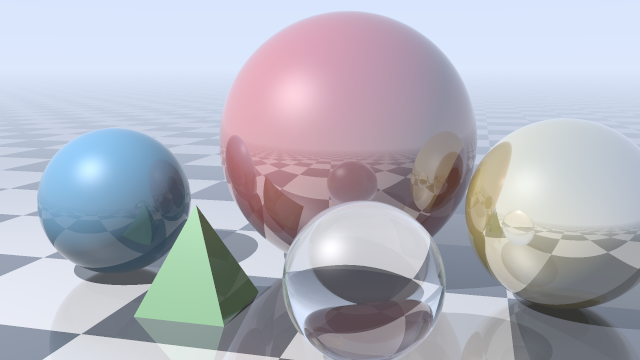
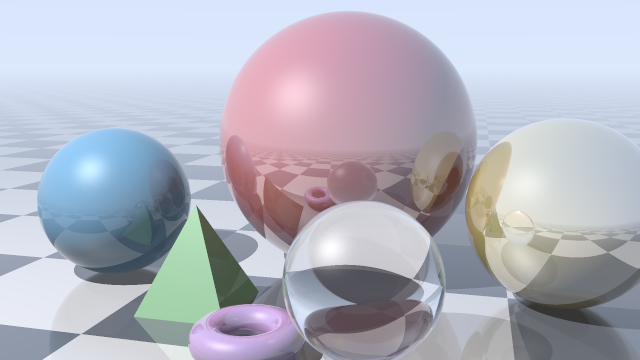
Add meshes behind a bounding volume hierarchy, an OBJ reader, and a smooth torus in the scene.
A mesh keeps its triangles in a tree of boxes, so a ray tests only the triangles near it: the 1,024-triangle ring renders 66 times faster than the same triangles tested one by one, to the same picture. Triangles can carry a normal at each corner, blended across the face, and load_obj reads Wavefront OBJ files. The README image is rendered again with the ring in it, and seven deliberate breakages each fail the test.

Changed region(s): [[0.2812, 0.825, 0.5312, 1.0], [0.4688, 0.5194, 0.5312, 0.5806], [0.5938, 0.9778, 0.625, 1.0]]

diff --git a/raytracer.py b/raytracer.py
@@ -104,10 +104,15 @@ class Plane:
 class Triangle:
     ior = None
 
-    def __init__(self, a, b, c, colour, reflect=0.0):
+    def __init__(self, a, b, c, colour, reflect=0.0, normals=None):
         # The normal follows the winding: counter-clockwise seen from outside points out.
+        # normals, one per corner, are blended across the face so a mesh looks smooth.
         self.a, self.e1, self.e2 = a, sub(b, a), sub(c, a)
         self.normal, self.colour, self.reflect = unit(cross(self.e1, self.e2)), colour, reflect
+        self.normals = normals
+        if normals:
+            d00, d01, d11 = dot(self.e1, self.e1), dot(self.e1, self.e2), dot(self.e2, self.e2)
+            self.bary = (d00, d01, d11, d00 * d11 - d01 * d01)
 
     def hit(self, origin, direction):
         # Moller-Trumbore: solve origin + t*direction = a + u*e1 + v*e2 by Cramer's rule,
@@ -128,10 +133,123 @@ class Triangle:
         return t if t > 1e-4 else None
 
     def normal_at(self, point):
-        return self.normal
+        if not self.normals:
+            return self.normal
+        # How far the point is towards b (u) and towards c (v), from the point's own position.
+        d00, d01, d11, denom = self.bary
+        w = sub(point, self.a)
+        d20, d21 = dot(w, self.e1), dot(w, self.e2)
+        u, v = (d11 * d20 - d01 * d21) / denom, (d00 * d21 - d01 * d20) / denom
+        na, nb, nc = self.normals
+        return unit(add(add(mul(na, 1 - u - v), mul(nb, u)), mul(nc, v)))
 
     def colour_at(self, point):
         return self.colour
+
+
+class Mesh:
+    # Many triangles behind one box tree (a BVH): a ray only tests the triangles in boxes it
+    # passes through. DOCS.md has how it is built and what it saves.
+    ior = None
+    LEAF = 4
+
+    def __init__(self, triangles):
+        self.triangles = triangles
+        self.root = self.build(triangles)
+
+    @staticmethod
+    def bounds(tris):
+        pts = [p for t in tris for p in (t.a, add(t.a, t.e1), add(t.a, t.e2))]
+        return tuple(min(p[i] for p in pts) for i in range(3)), tuple(max(p[i] for p in pts) for i in range(3))
+
+    def build(self, tris):
+        # Split at the median along the axis where the triangles' centres spread widest.
+        lo, hi = self.bounds(tris)
+        if len(tris) <= self.LEAF:
+            return lo, hi, tris
+        centre = lambda t, i: t.a[i] + (t.e1[i] + t.e2[i]) / 3
+        axis = max(range(3), key=lambda i: max(centre(t, i) for t in tris) - min(centre(t, i) for t in tris))
+        tris = sorted(tris, key=lambda t: centre(t, axis))
+        half = len(tris) // 2
+        return lo, hi, (self.build(tris[:half]), self.build(tris[half:]))
+
+    def closest(self, origin, direction):
+        # The nearest triangle hit and its distance. Boxes are tested by slabs: the ray is
+        # inside the box between the last plane it enters and the first it leaves.
+        inv = tuple(1 / d if d else float("inf") for d in direction)
+        best_t, best = float("inf"), None
+        stack = [self.root]
+        while stack:
+            lo, hi, kids = stack.pop()
+            near, far = 0.0, best_t
+            for i in range(3):
+                t1, t2 = (lo[i] - origin[i]) * inv[i], (hi[i] - origin[i]) * inv[i]
+                if t1 > t2:
+                    t1, t2 = t2, t1
+                near, far = max(near, t1), min(far, t2)
+                if near > far:
+                    break
+            else:
+                if isinstance(kids, tuple):
+                    stack.extend(kids)
+                    continue
+                for tri in kids:
+                    t = tri.hit(origin, direction)
+                    if t is not None and t < best_t:
+                        best_t, best = t, tri
+        return best_t, best
+
+
+def load_obj(text, colour, reflect=0.0, scale=1.0, offset=(0.0, 0.0, 0.0)):
+    # Wavefront OBJ: v and vn lines, and f lines as i, i/j, i//k or i/j/k, counted from 1 or,
+    # when negative, back from the latest. A face of more than three corners is fanned.
+    verts, norms, tris = [], [], []
+
+    def pick(table, k):
+        i = int(k)
+        if not -len(table) <= i <= len(table) or i == 0:
+            raise ValueError(f"index {i} names nothing: there are {len(table)}, counted from 1 or back from -1")
+        return table[i - 1 if i > 0 else i]
+    for number, line in enumerate(text.splitlines(), 1):
+        words = line.split("#")[0].split()
+        if not words:
+            continue
+        try:
+            if words[0] == "v":
+                verts.append(add(mul(tuple(float(w) for w in words[1:4]), scale), offset))
+            elif words[0] == "vn":
+                norms.append(unit(tuple(float(w) for w in words[1:4])))
+            elif words[0] == "f":
+                corners = []
+                for w in words[1:]:
+                    parts = w.split("/")
+                    corners.append((pick(verts, parts[0]), pick(norms, parts[2]) if len(parts) > 2 and parts[2] else None))
+                if len(corners) < 3:
+                    raise ValueError("a face needs three corners")
+                for i in range(1, len(corners) - 1):
+                    (a, na), (b, nb), (c, nc) = corners[0], corners[i], corners[i + 1]
+                    tris.append(Triangle(a, b, c, colour, reflect, (na, nb, nc) if na and nb and nc else None))
+        except ValueError as e:
+            raise ValueError(f"line {number}: {line.strip()}: {e}") from None
+    if not tris:
+        raise ValueError("no faces")
+    return Mesh(tris)
+
+
+def torus(centre, ring, tube, colour, reflect=0.0, around=32, across=16):
+    # A ring lying flat: around the ring, then around the tube, each corner with its true normal.
+    def at(i, j):
+        a, b = 2 * math.pi * i / around, 2 * math.pi * j / across
+        n = (math.cos(b) * math.cos(a), math.sin(b), math.cos(b) * math.sin(a))
+        p = add(centre, ((ring + tube * math.cos(b)) * math.cos(a), tube * math.sin(b), (ring + tube * math.cos(b)) * math.sin(a)))
+        return p, n
+    tris = []
+    for i in range(around):
+        for j in range(across):
+            (p00, n00), (p10, n10), (p01, n01), (p11, n11) = at(i, j), at(i + 1, j), at(i, j + 1), at(i + 1, j + 1)
+            tris.append(Triangle(p00, p01, p10, colour, reflect, (n00, n01, n10)))
+            tris.append(Triangle(p10, p01, p11, colour, reflect, (n10, n01, n11)))
+    return Mesh(tris)
 
 
 def pyramid(centre, half, height, colour, reflect=0.0):
@@ -148,6 +266,7 @@ SCENE = [
     Sphere((-1.35, -0.05, -1.9), 0.45, (0.25, 0.55, 0.85), reflect=0.1),
     Sphere((1.25, 0.0, -2.0), 0.5, (0.95, 0.80, 0.30), reflect=0.6),
     *pyramid((-0.62, -0.5, -1.5), 0.25, 0.55, (0.40, 0.75, 0.40), reflect=0.1),
+    torus((-0.15, -0.42, -1.0), 0.18, 0.08, (0.70, 0.45, 0.85), reflect=0.2),
     Sphere((0.35, -0.15, -1.1), 0.35, BLACK, ior=1.5),
 ]
 LIGHT = (-2.2, 3.0, 0.4)
@@ -157,7 +276,8 @@ AMBIENT = 0.12
 def nearest(origin, direction):
     best_t, best_obj = float("inf"), None
     for obj in SCENE:
-        t = obj.hit(origin, direction)
+        # A mesh answers with the triangle it hit, which is what knows its normal.
+        t, obj = obj.closest(origin, direction) if isinstance(obj, Mesh) else (obj.hit(origin, direction), obj)
         if t is not None and t < best_t:
             best_t, best_obj = t, obj
     return best_t, best_obj

diff --git a/test_raytracer.py b/test_raytracer.py
@@ -231,6 +231,64 @@ def main():
     assert dark < bright * 0.6, f"the pyramid casts no real shadow: {dark:.3f} vs {bright:.3f}"
     print(f"triangles: {compared} random rays agree with a second method, {hits} of them hits")
 
+    # A mesh's box tree must find the very triangle that testing every one of them finds.
+    ring = rt.torus((0.0, 0.0, -2.0), 0.5, 0.18, rt.BLACK)
+    hits = 0
+    for _ in range(2000):
+        origin = (rng.uniform(-2, 2), rng.uniform(-2, 2), rng.uniform(-0.5, 1))
+        direction = rt.unit(rt.sub((rng.uniform(-0.8, 0.8), rng.uniform(-0.3, 0.3), rng.uniform(-2.8, -1.2)), origin))
+        found = [(t, tri) for tri in ring.triangles if (t := tri.hit(origin, direction)) is not None]
+        assert ring.closest(origin, direction) == min(found, default=(float("inf"), None), key=lambda f: f[0])
+        hits += bool(found)
+    assert hits > 1000, hits
+    # Each face's winding agrees with the normals at its corners, and those blend across it:
+    # a corner's own normal at the corner, their average in the middle.
+    for tri in ring.triangles:
+        assert all(rt.dot(tri.normal, n) > 0 for n in tri.normals), "a face of the ring is wound inward"
+        b, c = rt.add(tri.a, tri.e1), rt.add(tri.a, tri.e2)
+        for corner, n in zip((tri.a, b, c), tri.normals):
+            assert max(abs(x - y) for x, y in zip(tri.normal_at(corner), n)) < 1e-9
+        middle = rt.add(tri.a, rt.mul(rt.add(tri.e1, tri.e2), 1 / 3))
+        expected = rt.unit(rt.add(rt.add(tri.normals[0], tri.normals[1]), tri.normals[2]))
+        assert max(abs(x - y) for x, y in zip(tri.normal_at(middle), expected)) < 1e-9
+    # In the scene, a ray that meets the ring is answered with one of its triangles.
+    mesh = next(obj for obj in rt.SCENE if isinstance(obj, rt.Mesh))
+    top = max(mesh.triangles, key=lambda tri: tri.a[1])  # on top of the tube, facing up
+    down = rt.add(top.a, rt.add(rt.mul(rt.add(top.e1, top.e2), 1 / 3), (0.0, 0.05, 0.0)))
+    assert rt.nearest(down, (0.0, -1.0, 0.0))[1] in mesh.triangles
+
+    # OBJ: every way a face can name its corners, negative indices, a quad fanned into two.
+    obj = """# a unit square and a triangle above it
+v 0 0 0
+v 1 0 0
+v 1 1 0
+v 0 1 0
+vn 0 0 2
+vt 0.5 0.5
+f 1 2 3 4
+f -4/1/1 -3//1 -2/1/-1
+f 1/1 2/1 4
+"""
+    square = rt.load_obj(obj, rt.BLACK)
+    assert len(square.triangles) == 4
+    corners = lambda tri: (tri.a, rt.add(tri.a, tri.e1), rt.add(tri.a, tri.e2))
+    assert corners(square.triangles[1]) == ((0.0, 0.0, 0.0), (1.0, 1.0, 0.0), (0.0, 1.0, 0.0)), "the quad was fanned wrongly"
+    assert corners(square.triangles[2]) == ((0.0, 0.0, 0.0), (1.0, 0.0, 0.0), (1.0, 1.0, 0.0)), "negative indices count wrongly"
+    assert square.triangles[2].normals == ((0.0, 0.0, 1.0),) * 3 and square.triangles[0].normals is None
+    assert abs(square.closest((0.75, 0.25, 1.0), (0.0, 0.0, -1.0))[0] - 1.0) < 1e-9
+    assert square.closest((1.5, 0.5, 1.0), (0.0, 0.0, -1.0))[1] is None
+    scaled = rt.load_obj(obj, rt.BLACK, scale=2.0, offset=(0.0, 0.0, -5.0))
+    assert abs(scaled.closest((1.5, 0.5, 0.0), (0.0, 0.0, -1.0))[0] - 5.0) < 1e-9
+    for broken, why in (("v 0 0 0\nf 1 2 3", "line 2: f 1 2 3: index 2 names nothing"), ("v 0 0 0\nv 1 0 0\nf 1 2", "line 3"),
+                        ("v 0 0 x", "line 1"), ("v 0 0 0", "no faces"), ("v 0 0 0\nf 1 0 1", "index 0 names nothing"),
+                        ("v 0 0 0\nf 1 1 -2", "index -2 names nothing")):
+        try:
+            rt.load_obj(broken, rt.BLACK)
+            raise AssertionError(f"{broken!r} was accepted")
+        except ValueError as e:
+            assert why in str(e), (broken, e)
+    print(f"meshes: 2000 rays find the same triangle through the box tree as without it, {hits} hits; OBJ read")
+
     # -H sets the height on the command line; without it the picture stays 16:9.
     import subprocess
     out = os.path.join(os.path.dirname(os.path.abspath(rt.__file__)), "t-size.png")

diff --git a/DOCS.md b/DOCS.md
@@ -184,8 +184,7 @@ The pyramid has four sides and no base, since the base sits on the floor and
 nothing can see it. It made the render 1.68 times slower, timed with and
 without it in turn in one process, because every ray now asks nine objects
 instead of five, and the full picture went from 53 seconds to 87. A mesh of
-thousands of triangles would need a bounding volume hierarchy, so that a ray
-only asks the triangles near it.
+thousands of triangles needs something better, which came next.
 
 The checks work the hit out by hand for one triangle, and then compare 3,000
 random rays at random triangles with a second method that meets the plane
@@ -198,3 +197,51 @@ The pyramid's shadow check was wrong at first. It looked straight down from
 high above, like the sphere's, but that ray landed on the red sphere, and the
 difference it measured was the pyramid's reflection in it. Turning off the
 pyramid's shadow left the check passing. It now starts just above the floor.
+
+## Meshes and the box tree
+
+A ring made of 1,024 triangles, tested one by one, makes every ray ask 1,034
+objects instead of ten. A small render of the scene took 26.4 seconds that
+way against 0.28 without the ring. So a `Mesh` keeps its triangles in a tree
+of boxes, a bounding volume hierarchy: the root box holds all of them, and
+each box splits its triangles in two at the median of their centres, along
+the axis where those centres spread widest, until four or fewer are left. A
+ray tests a box by slabs: between each pair of parallel faces it is inside
+for some stretch of t, and it is inside the box where all three stretches
+overlap. Only boxes it enters are opened, and a box that starts further away
+than the nearest hit so far is not opened at all. The same render took 0.40
+seconds, 66 times faster than the loose triangles and the same picture to the
+byte; the ring costs about what two spheres do. The full 640x360 render went
+from 87 seconds to 112 on four cores, and is 318 on one, identical either way.
+
+`nearest` asks a mesh for the triangle it hit, not just how far, since the
+triangle is what knows the normal and the colour.
+
+Flat triangles make a curved surface look cut from facets. So a triangle can
+carry a normal at each corner, and the normal at a point is the three blended
+by how near the point is to each corner, worked out from the point itself:
+its barycentric weights. The ring gives each corner its true normal from the
+torus, and an OBJ file gives them on `vn` lines. The shape is still the flat
+triangles, so a shadow ray from near the edge of the lit side can meet the
+triangle beside it; at 1,024 triangles that is not visible.
+
+`load_obj` reads the parts of Wavefront OBJ that describe shape: `v` and `vn`
+lines and `f` lines, with corners written as `i`, `i/j`, `i//k` or `i/j/k`,
+counted from 1, or from the end when negative. A face of four or more corners
+is fanned into triangles from its first corner. An index of 0 or past the end
+is refused with its line, as is a face of fewer than three corners.
+
+The checks: 2,000 random rays must find, through the tree, the very triangle
+that testing all 1,024 finds; every face of the ring must be wound the way
+its corner normals point; the blended normal must be each corner's own at the
+corner and their average at the centre; a ray straight down onto the ring in
+the scene must come back with one of its triangles; and OBJ text using every
+corner form, negative indices and a quad must give triangles with exactly the
+expected corners. Seven breakages fail it: slab ends not put in order, a box
+that leaves out one corner of each triangle, the blend weights swapped, a
+negative index one off, index 0 let through, a mesh answering as itself
+rather than its triangle, and the ring wound inward. The first run missed
+two of them, because the OBJ test only shot a ray at the square, and any
+triangle in the same plane passes that; it now checks the corners. Changes
+that only make the tree slower, such as splitting on the wrong axis, were not
+counted, since every answer stays right.

diff --git a/README.md b/README.md
@@ -12,7 +12,7 @@ PNG itself.
     python raytracer.py -w 400 -H 400 -o square.png      # any shape; 16:9 without -H
 
 Each row is drawn independently, so rows are shared across processes. On this
-machine's four cores the full image above takes 87 seconds instead of 246,
+machine's four cores the full image above takes 112 seconds instead of 318,
 and the file is byte for byte the same either way. The glass ball more than
 doubled both: every ray that meets glass splits into two.
 
@@ -31,6 +31,11 @@ routine make the whole picture.
   four bounces deep, stronger at a glancing angle as on any real surface.
 - Glass: Snell's law for the bend, total internal reflection when the angle
   is too steep to get out, and Schlick's approximation for how much reflects.
+- Meshes: triangles with a normal at each corner, blended across the face so
+  a curved surface looks curved, behind a bounding volume hierarchy, so a ray
+  tests only the triangles in the boxes it passes through. `load_obj` reads
+  Wavefront OBJ files, and `torus` makes the ring in the picture, 1,024
+  triangles that cost a ray about as much as two spheres.
 - A checkered floor that is just the parity of the floored coordinates.
 - Grid supersampling, which is what removes the jagged edges.
 - sRGB gamma, without which the whole image looks muddy.
